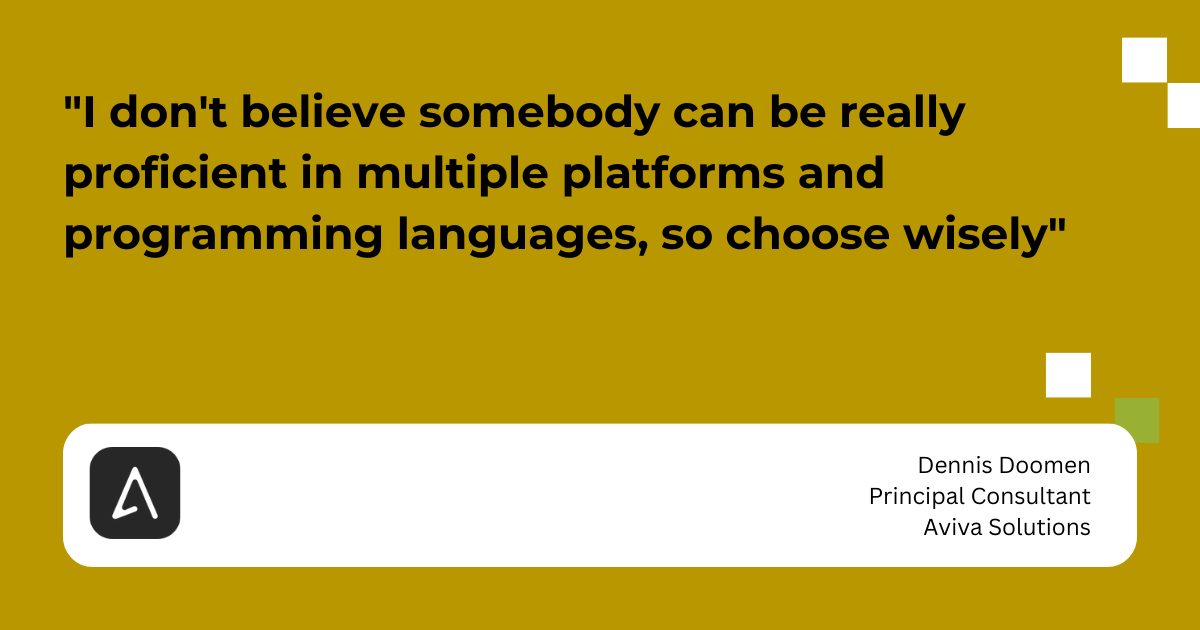
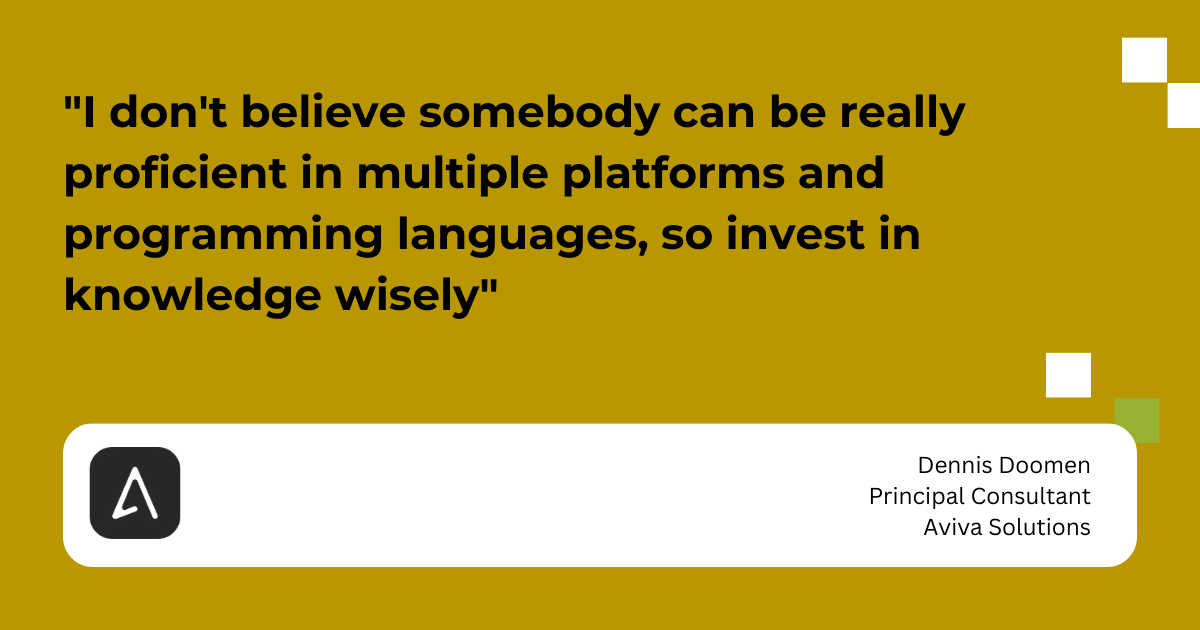
Minor typos

Changed region(s): [[0.0308, 0.4222, 0.4317, 0.5127], [0.5858, 0.3317, 0.8942, 0.4222]]

diff --git a/_posts/2023/2023-02-27-cant-know-everything.md b/_posts/2023/2023-02-27-cant-know-everything.md
@@ -1,7 +1,7 @@
 ---
 
-title: "You can't know everything (and where I get my knowledge)"
-excerpt: "I don't believe somebody can be really proficient in multiple platforms and programming languages, so choose wisely."
+title: "You can't know everything (and where I get my knowledge from)"
+excerpt: "I don't believe somebody can be really proficient in multiple platforms and programming languages, so invest in knowledge wisely."
 
 tags:
 - learning
